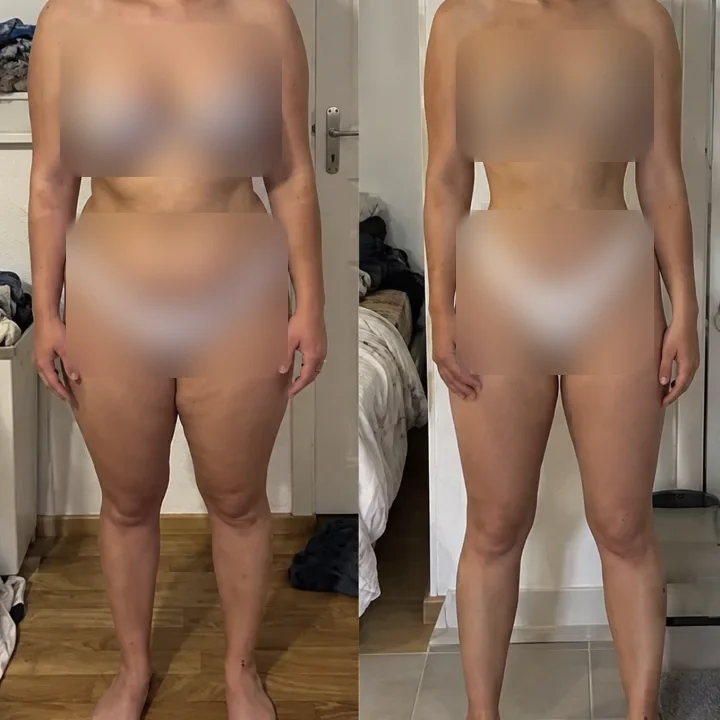
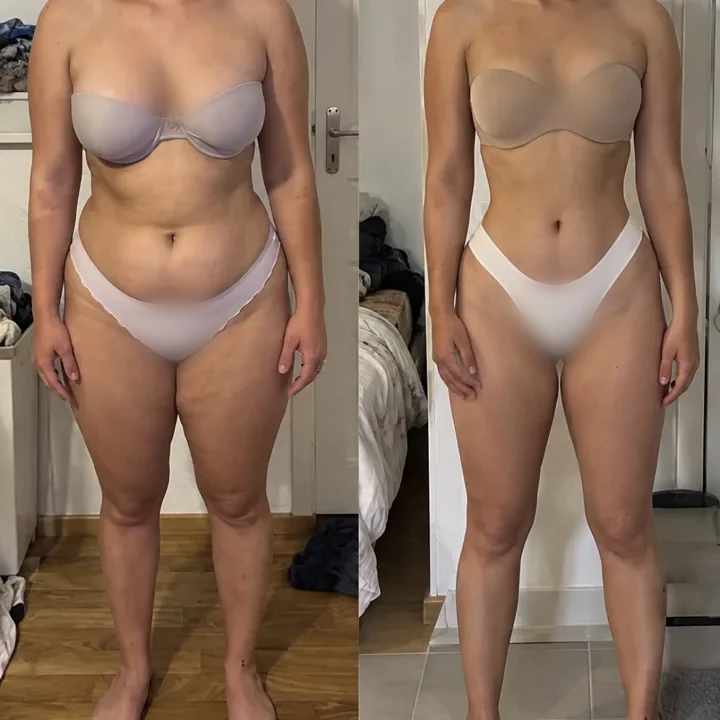
Crédibilité : Maria 8 mois partout, floutage intermédiaire, avis unique, wording hybride, sans chiffre
- Maria : −10 kg en 8 mois partout (index, transformations, offres, carrousels, Chilly-Mazarin, llms.txt)
- Photos Maria repartent des originaux : flou intermédiaire sur entrejambe et poitrine,
  résultats lisibles, mention « Photo publiée avec son accord » conservée (cache ?v=5)
- offres.html : avis « après ma grossesse » signé Alizée retiré (le bon prénom est Charlotte C.)
- offres.html : hybride Présence + formulé « ton rendez-vous mensuel avec moi » (plus de pluriels)
- transformations.html : « 90 % des femmes seules abandonnent » → « Seule, on lâche vite. Accompagnée, on avance. »

Claude-Session: https://claude.ai/code/session_0116pNBUciodfDtZ6XsWLEV5

diff --git a/offres.html b/offres.html
@@ -781,7 +781,7 @@ height="0" width="0" style="display:none;visibility:hidden"></iframe></noscript>
   </div>
   <div class="rf-tx-track">
     <a class="rf-tx-card" href="transformations.html#transfo-louise"><img src="images/avis/louise.webp" width="720" height="720" alt="Avant / après de Louise, coachée à domicile : −9 cm de tour de taille" fetchpriority="high" decoding="async"><span class="rf-tx-txt"><b>Louise</b> · −9 cm de tour de taille</span></a>
-    <a class="rf-tx-card" href="transformations.html#transfo-maria"><img src="images/avis/maria.webp?v=3" width="720" height="720" alt="Avant / après de Maria : −10 kg, coaching 100 % à distance" loading="lazy" decoding="async"><span class="rf-tx-txt"><b>Maria</b> · −10 kg, 100 % à distance</span></a>
+    <a class="rf-tx-card" href="transformations.html#transfo-maria"><img src="images/avis/maria.webp?v=5" width="720" height="720" alt="Avant / après de Maria : −10 kg, coaching 100 % à distance" loading="lazy" decoding="async"><span class="rf-tx-txt"><b>Maria</b> · −10 kg, 100 % à distance</span></a>
     <a class="rf-tx-card" href="transformations.html#transfo-lise"><img src="images/avis/lise.webp" width="720" height="720" alt="Avant / après de Lise : recomposition, ventre et taille affinés" loading="lazy" decoding="async"><span class="rf-tx-txt"><b>Lise</b> · recomposition, taille affinée</span></a>
   </div>
 </section>
@@ -827,7 +827,7 @@ height="0" width="0" style="display:none;visibility:hidden"></iframe></noscript>
       <p style="font-family:'Cormorant Garamond',serif;font-style:italic;font-size:clamp(1.1rem,2.6vw,1.3rem);color:var(--rf-ink2);margin:0 0 18px;">À la salle, tu paies un accès. Ici, tu paies un résultat. <a href="coach-sportif-ou-salle-de-sport.html" style="font:600 .8rem/1 'DM Sans',sans-serif;font-style:normal;color:var(--rf-terra);white-space:nowrap;">Le comparatif →</a></p>
       <span class="rf-eyebrow">Choisir mon accompagnement</span>
       <h2 class="rf-h2" style="margin-top:.3em;">Trois façons de <em>travailler avec moi</em></h2>
-      <p class="rf-lead">Chaque situation est différente. Celle que je recommande le plus&nbsp;: l'<strong>hybride</strong> — l'équilibre idéal entre séances en présentiel et autonomie guidée. Repère celle qui te ressemble, le détail des tarifs s'ouvre juste en dessous.</p>
+      <p class="rf-lead">Chaque situation est différente. Celle que je recommande le plus&nbsp;: l'<strong>hybride</strong> — l'équilibre idéal entre un rendez-vous mensuel en présentiel et une autonomie guidée. Repère celle qui te ressemble, le détail des tarifs s'ouvre juste en dessous.</p>
       <a href="espace-suivi.html" style="display:inline-block;margin-top:14px;background:#FFF9FA;border:1px solid #EDD0D8;border-radius:20px;padding:10px 20px;text-decoration:none;font-size:0.82rem;line-height:1.5;color:#A85570;font-weight:600;max-width:90%;">🔒 Quelle que soit ta formule, ton <strong style="color:#8E3D57;">espace de suivi privé</strong> est inclus →</a>
     </div>
 
@@ -854,11 +854,11 @@ height="0" width="0" style="display:none;visibility:hidden"></iframe></noscript>
         <div class="rf-fcard-for">« Je veux progresser toute la semaine, pas seulement le jour où on s'entraîne ensemble. »</div>
         <div class="rf-fcard-price">149€ <small>/ mois · l'hybride : 1 séance avec moi + programme &amp; suivi toute la semaine</small></div>
         <div style="font-size:.78rem;color:var(--rf-mute);line-height:1.5;margin:-6px 0 10px;">1 rendez-vous en présentiel par mois, un programme sur-mesure et un suivi au quotidien — <b style="color:var(--rf-ink);">tout compris</b>.</div>
-        <div class="rf-fcard-hero">Tes séances avec moi <b>+ un vrai programme sur-mesure</b> pour t'entraîner seule le reste de la semaine. Tu t'entraînes bien plus — sans jamais être livrée à toi-même.</div>
+        <div class="rf-fcard-hero">Ton rendez-vous mensuel avec moi <b>+ un vrai programme sur-mesure</b> pour t'entraîner seule le reste du mois. Tu t'entraînes bien plus — sans jamais être livrée à toi-même.</div>
         <ul>
-          <li><strong>Un vrai programme interactif entre nos séances</strong> — jusqu'à 5 entraînements guidés (vidéos + chrono), pas une simple liste d'exercices</li>
+          <li><strong>Un vrai programme interactif entre nos rendez-vous</strong> — jusqu'à 5 entraînements guidés (vidéos + chrono), pas une simple liste d'exercices</li>
           <li><strong>Mis à jour toutes les 4 semaines</strong> et pensé pour ta vraie vie — jamais un plan figé, il évolue avec toi</li>
-          <li>De <strong>vraies séances</strong> avec moi à domicile (Essonne)</li>
+          <li><strong>Ton rendez-vous mensuel avec moi</strong>, à domicile (Essonne)</li>
           <li>Je reste avec toi entre les rendez-vous : <strong>suivi WhatsApp + ajustements</strong></li>
           <li>Ton <strong>espace de suivi privé</strong> inclus (programme, bilans, mensurations)</li>
         </ul>
@@ -1400,7 +1400,7 @@ height="0" width="0" style="display:none;visibility:hidden"></iframe></noscript>
         <div class="rf-acc-inner">
           <!-- 1 · LE PRINCIPE, EN CLAIR -->
           <div class="rf-hyb-principle">
-            <p>🤝 <b>Avec moi, en présentiel&nbsp;:</b> on s'entraîne ensemble, je te corrige et j'ajuste ton programme au fil des séances.</p>
+            <p>🤝 <b>Avec moi, en présentiel&nbsp;:</b> on s'entraîne ensemble, je te corrige et j'ajuste ton programme à chaque rendez-vous mensuel.</p>
             <p>📱 <b>Entre nos rendez-vous&nbsp;:</b> tu continues seule avec un programme sur-mesure et interactif, guidé en vidéo, mis à jour toutes les 4 semaines.</p>
             <p>✨ <b>Résultat&nbsp;:</b> tu t'entraînes toute la semaine, pas seulement le jour du coaching — et tu n'es jamais livrée à toi-même.</p>
           </div>
@@ -1430,13 +1430,13 @@ height="0" width="0" style="display:none;visibility:hidden"></iframe></noscript>
           <!-- 2 · CE QUI EST INCLUS -->
           <div class="rf-hyb-h">Inclus dans ton coaching hybride</div>
           <ul class="rf-inc">
-            <li>De <b>vraies séances</b> avec moi à domicile dans l'Essonne (ou en salle ON AIR Fitness proche de mon secteur)</li>
+            <li><b>Ton rendez-vous mensuel avec moi</b>, à domicile dans l'Essonne (ou en salle ON AIR Fitness proche de mon secteur)</li>
             <li><b>Jusqu'à 5 entraînements à faire seule</b> entre nos rendez-vous — pour t'entraîner bien plus souvent</li>
             <li>Un <b>programme 100 % sur-mesure</b>, construit à partir de ce qu'on travaille ensemble et adapté à ton évolution</li>
             <li>Un <b>programme interactif et guidé</b> (vidéos intégrées, chrono)&nbsp;: tu sais exactement quoi faire</li>
             <li><b>Réactualisé toutes les 4 semaines</b>&nbsp;: ton programme évolue avec toi et ta vie, jamais un plan figé</li>
             <li>Ton <b>espace coaché personnel</b>&nbsp;: programme, bilans, mensurations, suivi de ton évolution</li>
-            <li><b>Suivi WhatsApp</b> entre les séances pour poser tes questions et ajuster si besoin</li>
+            <li><b>Suivi WhatsApp</b> entre nos rendez-vous pour poser tes questions et ajuster si besoin</li>
           </ul>
 
           <!-- 3 · PARCOURS + SÉLECTEUR DE DURÉE -->
@@ -1495,7 +1495,7 @@ height="0" width="0" style="display:none;visibility:hidden"></iframe></noscript>
             <p style="font-size:.76rem;color:var(--rf-mute);line-height:1.55;margin:6px 0 0;">Parcours 3 mois au tarif remisé · paiement SEPA sécurisé. <a href="cgv.html" style="color:var(--rf-terra);font-weight:600;">Voir les conditions (CGV) →</a></p>
           </div>
 
-          <p style="text-align:center;font-family:'Cormorant Garamond',Georgia,serif;font-style:italic;font-size:1.15rem;color:var(--rf-terra);line-height:1.45;margin:24px auto 20px;max-width:470px;">Plus de séances, plus de pratique, plus de progression — sans perdre l'accompagnement d'une coach.</p>
+          <p style="text-align:center;font-family:'Cormorant Garamond',Georgia,serif;font-style:italic;font-size:1.15rem;color:var(--rf-terra);line-height:1.45;margin:24px auto 20px;max-width:470px;">Plus d'entraînements, plus de pratique, plus de progression — sans perdre l'accompagnement d'une coach.</p>
 
           <a href="https://wa.me/33756834626?text=Bonjour%20Ornella%20!%20Je%20choisis%20le%20coaching%20hybride.%20On%20en%20parle%20%3F" target="_blank" class="rf-btn rf-btn-primary rf-btn-block rf-acc-cta">💬 Choisir cette formule (on en parle sur WhatsApp) →</a>
         </div>
@@ -1550,10 +1550,10 @@ height="0" width="0" style="display:none;visibility:hidden"></iframe></noscript>
             <div style="font-size:.8rem;color:var(--rf-terra);font-weight:600;margin-bottom:14px;">Ton programme personnalisé + je t'accompagne et je l'adapte dans le temps. Plus tu t'engages longtemps, plus le tarif est remisé.</div>
             <!-- PREUVE : Maria, 100 % distanciel + nutrition -->
             <a href="transformations.html#transfo-maria" style="display:flex;gap:14px;align-items:center;background:#fff;border:1px solid var(--rf-line);border-radius:14px;padding:10px;margin:0 0 16px;text-decoration:none;color:inherit;">
-              <img src="images/avis/maria.webp?v=3" alt="Avant / après de Maria, coachée à distance par Ornella" width="96" height="96" loading="lazy" style="width:96px;height:96px;border-radius:10px;object-fit:cover;flex-shrink:0;">
+              <img src="images/avis/maria.webp?v=5" alt="Avant / après de Maria, coachée à distance par Ornella" width="96" height="96" loading="lazy" style="width:96px;height:96px;border-radius:10px;object-fit:cover;flex-shrink:0;">
               <span style="display:flex;flex-direction:column;gap:3px;min-width:0;">
                 <span style="color:#E0A526;font-size:.78rem;letter-spacing:1px;">★★★★★</span>
-                <span style="font:700 .9rem/1.3 'DM Sans',sans-serif;color:var(--rf-ink);">Maria · −10 kg en 6 mois, 100 % à distance</span>
+                <span style="font:700 .9rem/1.3 'DM Sans',sans-serif;color:var(--rf-ink);">Maria · −10 kg en 8 mois, 100 % à distance</span>
                 <span style="font-size:.78rem;line-height:1.45;color:var(--rf-mute);">38 ans, 2 enfants. Programme sur-mesure + Boost Nutrition. <span style="color:var(--rf-terra);font-weight:600;">Voir sa transformation →</span></span>
               </span>
             </a>
@@ -1657,25 +1657,6 @@ height="0" width="0" style="display:none;visibility:hidden"></iframe></noscript>
       <div style="font-size:0.78rem;color:#7A6E6E;">25 avis vérifiés →</div>
     </div>
   </a>
-</div>
-
-<!-- TÉMOIGNAGE — remonté avant les détails d'offres -->
-<div style="background:white;padding:0 24px 32px;">
-  <div class="avis-card" style="max-width:520px;margin:0 auto;">
-    <div class="avis-header">
-      <div class="avis-avatar" style="background:linear-gradient(135deg,#9A8080,#C9957A);">A</div>
-      <div class="avis-meta">
-        <div class="avis-name">Alizée</div>
-        <div class="avis-date">Avis Google vérifié</div>
-      </div>
-      <a href="https://share.google/NcyAyWaS3WMZgQ4B6" target="_blank" aria-label="Voir les avis Google d'Ornella Fit Coaching">
-        <svg class="avis-google" viewBox="0 0 24 24" width="20" height="20"><path fill="#4285F4" d="M22.56 12.25c0-.78-.07-1.53-.2-2.25H12v4.26h5.92c-.26 1.37-1.04 2.53-2.21 3.31v2.77h3.57c2.08-1.92 3.28-4.74 3.28-8.09z"/><path fill="#34A853" d="M12 23c2.97 0 5.46-.98 7.28-2.66l-3.57-2.77c-.98.66-2.23 1.06-3.71 1.06-2.86 0-5.29-1.93-6.16-4.53H2.18v2.84C3.99 20.53 7.7 23 12 23z"/><path fill="#FBBC05" d="M5.84 14.09c-.22-.66-.35-1.36-.35-2.09s.13-1.43.35-2.09V7.07H2.18C1.43 8.55 1 10.22 1 12s.43 3.45 1.18 4.93l2.85-2.22.81-.62z"/><path fill="#EA4335" d="M12 5.38c1.62 0 3.06.56 4.21 1.64l3.15-3.15C17.45 2.09 14.97 1 12 1 7.7 1 3.99 3.47 2.18 7.07l3.66 2.84c.87-2.6 3.3-4.53 6.16-4.53z"/></svg>
-      </a>
-    </div>
-    <div class="avis-stars">★★★★★</div>
-    <p class="avis-text">J'ai commencé le coaching avec Ornella après ma grossesse, à un moment où je ne me reconnaissais plus vraiment physiquement. En quelques semaines, j'ai retrouvé du tonus, une meilleure posture et surtout confiance en moi. Elle ne promet pas de miracle, elle travaille intelligemment, et les résultats sont là. Je recommande à 100% ! 🙏</p>
-    <a href="https://share.google/NcyAyWaS3WMZgQ4B6" target="_blank" style="display:inline-block;margin-top:10px;font-size:0.78rem;font-weight:600;color:#4285F4;text-decoration:underline;text-underline-offset:2px;">Voir cet avis et les autres sur Google →</a>
-  </div>
 </div>
 
 <!-- 3 AVIS GOOGLE (suite Section 6) -->

diff --git a/transformations.html b/transformations.html
@@ -699,7 +699,7 @@ height="0" width="0" style="display:none;visibility:hidden"></iframe></noscript>
 <div class="transfo-ticker-wrap">
   <div class="transfo-ticker">
     <div class="transfo-ticker-track">
-      <a href="#transfo-maria"><img src="images/maria-face.webp?v=3" alt="Transformation Maria" width="1200" height="1200" loading="lazy"></a>
+      <a href="#transfo-maria"><img src="images/maria-face.webp?v=5" alt="Transformation Maria" width="1200" height="1200" loading="lazy"></a>
       <a href="#transfo-lise"><img src="images/lise-face.webp?v=2" alt="Transformation Lise" width="1191" height="1191" loading="lazy"></a>
       <a href="#transfo-lucie"><img src="images/avis/lucie.webp" alt="Transformation Lucie" width="720" height="720" loading="lazy"></a>
       <a href="#transfo-ornella"><img src="images/ornella-avant-apres-postpartum.jpg" alt="Transformation Ornella post-partum" width="2048" height="2048"></a>
@@ -711,7 +711,7 @@ height="0" width="0" style="display:none;visibility:hidden"></iframe></noscript>
       <a href="#transfo-anonyme"><img src="images/avant-apres-anonyme.jpg" alt="Transformation cliente" width="2048" height="2048" loading="lazy"></a>
       <a href="#transfo-anonyme"><img src="images/avant-apres-profil-anonyme.jpg" alt="Transformation cliente profil" width="2048" height="2048" loading="lazy"></a>
       <!-- doublon pour boucle infinie -->
-      <a href="#transfo-maria"><img src="images/maria-face.webp?v=3" alt="Transformation Maria" width="1200" height="1200" loading="lazy"></a>
+      <a href="#transfo-maria"><img src="images/maria-face.webp?v=5" alt="Transformation Maria" width="1200" height="1200" loading="lazy"></a>
       <a href="#transfo-lise"><img src="images/lise-face.webp?v=2" alt="Transformation Lise" width="1191" height="1191" loading="lazy"></a>
       <a href="#transfo-lucie"><img src="images/avis/lucie.webp" alt="Transformation Lucie" width="720" height="720" loading="lazy"></a>
       <a href="#transfo-ornella"><img src="images/ornella-avant-apres-postpartum.jpg" alt="Transformation Ornella post-partum" width="2048" height="2048" loading="lazy"></a>
@@ -840,12 +840,12 @@ height="0" width="0" style="display:none;visibility:hidden"></iframe></noscript>
       <div class="tc-card-featured" id="transfo-maria">
         <div class="tc-featured-photos">
           <div class="transfo-img-wrap">
-            <img src="images/maria-face.webp?v=3" alt="Transformation Maria vue de face — coaching 100 % à distance Ornella Fit" loading="lazy" width="1200" height="1200">
+            <img src="images/maria-face.webp?v=5" alt="Transformation Maria vue de face — coaching 100 % à distance Ornella Fit" loading="lazy" width="1200" height="1200">
             <div class="transfo-img-label">Vue de face</div>
             <div class="transfo-img-tag">AVANT → APRÈS</div>
           </div>
           <div class="transfo-img-wrap">
-            <img src="images/maria-dos.webp?v=2" alt="Transformation Maria vue de dos — coaching 100 % à distance Ornella Fit" loading="lazy" width="1080" height="1080">
+            <img src="images/maria-dos.webp?v=5" alt="Transformation Maria vue de dos — coaching 100 % à distance Ornella Fit" loading="lazy" width="1080" height="1080">
             <div class="transfo-img-label">Vue de dos</div>
             <div class="transfo-img-tag">AVANT → APRÈS</div>
           </div>
@@ -861,7 +861,7 @@ height="0" width="0" style="display:none;visibility:hidden"></iframe></noscript>
               <div class="tc-featured-stat-label">Poids perdu</div>
             </div>
             <div class="tc-featured-stat">
-              <div class="tc-featured-stat-num">6</div>
+              <div class="tc-featured-stat-num">8</div>
               <div class="tc-featured-stat-label">Mois de suivi</div>
             </div>
             <div class="tc-featured-stat">
@@ -869,7 +869,7 @@ height="0" width="0" style="display:none;visibility:hidden"></iframe></noscript>
               <div class="tc-featured-stat-label">À distance</div>
             </div>
           </div>
-          <p class="tc-featured-story">Deux enfants, peu de temps, et jamais une séance en face à face : tout s'est fait à distance. Un programme construit pour elle, l'alimentation ajustée chaque mois, un suivi WhatsApp et un bilan régulier. <strong>Résultat : −10 kg en 6 mois, un ventre affiné et des fessiers redessinés.</strong></p>
+          <p class="tc-featured-story">Deux enfants, peu de temps, et jamais une séance en face à face : tout s'est fait à distance. Un programme construit pour elle, l'alimentation ajustée chaque mois, un suivi WhatsApp et un bilan régulier. <strong>Résultat : −10 kg en 8 mois, un ventre affiné et des fessiers redessinés.</strong></p>
           <a href="https://wa.me/33756834626?text=Bonjour%20Ornella%20!%20J%27ai%20vu%20la%20transformation%20de%20Maria%20et%20j%27aimerais%20un%20coaching%20%C3%A0%20distance.%20Comment%20on%20commence%20%3F" class="btn-main" target="_blank" style="display:inline-flex;align-self:flex-start;">Je veux un suivi comme Maria →</a>
           <a href="offres.html#tarif-distanciel" class="tc-formule-link" style="display:inline-block;margin-top:10px;font-size:.88rem;font-weight:700;color:#C96358;text-decoration:underline;text-underline-offset:3px;">Découvrir le coaching à distance →</a>
         </div>
@@ -1192,7 +1192,7 @@ height="0" width="0" style="display:none;visibility:hidden"></iframe></noscript>
 
     <div class="avis-closing fade-in">
       <div class="avis-closing-text">
-        <p class="avis-closing-stat"><em>90%</em> des femmes seules abandonnent.</p>
+        <p class="avis-closing-stat">Seule, on lâche vite. <em>Accompagnée, on avance.</em></p>
         <p class="avis-closing-sub">Celles qui sont accompagnées avancent — semaine après semaine, résultat après résultat.</p>
       </div>
       <a href="https://wa.me/33756834626" class="avis-cta-btn" target="_blank">

diff --git a/index.html b/index.html
@@ -1232,7 +1232,7 @@ height="0" width="0" style="display:none;visibility:hidden"></iframe></noscript>
           Réserver mon bilan gratuit →
         </a>
         <p class="hero-proof-line" style="margin-top:12px;font-size:0.92rem;color:var(--dark);font-weight:600;">
-          <span style="color:#C9A96E;">★ 5,0</span> · 25 avis Google · <span style="color:var(--accent);">Maria −10 kg en 6 mois</span>
+          <span style="color:#C9A96E;">★ 5,0</span> · 25 avis Google · <span style="color:var(--accent);">Maria −10 kg en 8 mois</span>
         </p>
         <p style="margin-top:8px;font-size:0.9rem;color:var(--text-mid);">
           ou <a href="quiz.html" style="color:var(--accent);text-decoration:underline;text-underline-offset:3px;">🎯 trouve ta formule en 2 min</a>
@@ -1421,7 +1421,7 @@ height="0" width="0" style="display:none;visibility:hidden"></iframe></noscript>
     <div class="chiffres-secondary">
       <div class="chiffres-stat">
         <div class="chiffres-stat-num">−10 kg</div>
-        <div class="chiffres-stat-label">Maria · 6 mois à distance</div>
+        <div class="chiffres-stat-label">Maria · 8 mois à distance</div>
       </div>
       <div class="chiffres-stat">
         <div class="chiffres-stat-num">−9 cm</div>
@@ -1648,7 +1648,7 @@ height="0" width="0" style="display:none;visibility:hidden"></iframe></noscript>
     <!-- TICKER PHOTOS TRANSFORMATIONS (boucle infinie : le 2e jeu est cloné en JS, cf. idxTickerLoop) -->
     <div class="idx-ticker-wrap">
       <div class="idx-ticker-track" id="idx-ticker-track">
-        <a href="transformations.html#transfo-maria"><img src="images/maria-face.webp?v=3" alt="Transformation Maria" width="1200" height="1200" loading="lazy"></a>
+        <a href="transformations.html#transfo-maria"><img src="images/maria-face.webp?v=5" alt="Transformation Maria" width="1200" height="1200" loading="lazy"></a>
         <a href="transformations.html#transfo-louise"><img src="images/louise-face.webp?v=2" alt="Transformation Louise" width="4319" height="4319" loading="lazy"></a>
         <a href="transformations.html#transfo-louise"><img src="images/louise-dos-avant-apres.webp?v=2" alt="Transformation Louise dos" width="4319" height="4319" loading="lazy"></a>
         <a href="transformations.html#transfo-emeline"><img src="images/transformation-emeline.webp" alt="Transformation Emeline" width="1080" height="1350" loading="lazy"></a>
@@ -1673,8 +1673,8 @@ height="0" width="0" style="display:none;visibility:hidden"></iframe></noscript>
       <!-- MARIA — 100 % à distance -->
       <div class="transfo-card transfo-card-featured transfo-card-emeline">
         <div class="transfo-card-img transfo-card-img-duo">
-          <img src="images/maria-face.webp?v=3" alt="Transformation Maria face — coaching 100 % à distance Ornella Fit" loading="lazy" width="1200" height="1200">
-          <img src="images/maria-dos.webp?v=2" alt="Transformation Maria dos — coaching 100 % à distance Ornella Fit" loading="lazy" width="1080" height="1080">
+          <img src="images/maria-face.webp?v=5" alt="Transformation Maria face — coaching 100 % à distance Ornella Fit" loading="lazy" width="1200" height="1200">
+          <img src="images/maria-dos.webp?v=5" alt="Transformation Maria dos — coaching 100 % à distance Ornella Fit" loading="lazy" width="1080" height="1080">
           <div class="transfo-card-tag">AVANT → APRÈS</div>
         </div>
         <div class="transfo-card-body">
@@ -1682,10 +1682,10 @@ height="0" width="0" style="display:none;visibility:hidden"></iframe></noscript>
           <div class="transfo-card-name">Maria · Maman 2 enfants · Coaching 100 % à distance</div>
           <div class="transfo-card-stats">
             <span class="transfo-card-stat">−10 kg</span>
-            <span class="transfo-card-stat">6 mois</span>
+            <span class="transfo-card-stat">8 mois</span>
             <span class="transfo-card-stat">100 % à distance</span>
           </div>
-          <p class="transfo-card-text">Deux enfants, peu de temps, jamais une séance en face à face : tout s'est fait à distance. Programme sur-mesure, alimentation ajustée chaque mois, suivi WhatsApp. <strong>Résultat : −10 kg en 6 mois, ventre affiné et fessiers redessinés.</strong></p>
+          <p class="transfo-card-text">Deux enfants, peu de temps, jamais une séance en face à face : tout s'est fait à distance. Programme sur-mesure, alimentation ajustée chaque mois, suivi WhatsApp. <strong>Résultat : −10 kg en 8 mois, ventre affiné et fessiers redessinés.</strong></p>
         </div>
       </div>
 

diff --git a/coach-sportif-domicile-chilly-mazarin.html b/coach-sportif-domicile-chilly-mazarin.html
@@ -140,7 +140,7 @@ j=d.createElement(s),dl=l!='dataLayer'?'&l='+l:'';j.async=true;j.src=
     <img src="images/louise-face.webp?v=2" alt="Transformation Louise — coaching sportif à domicile Essonne" loading="lazy" width="1080" height="1080">
     <div class="ct-txt">
       <span class="section-label" style="color:#C96358;">Résultat réel</span>
-      <p class="section-subtitle" style="text-align:left;margin-top:8px;">À distance comme en présentiel, les résultats suivent : Maria a perdu <strong>10 kg en 6 mois</strong> en 100 % à distance, et Louise <strong>9 cm de taille</strong> en coaching à domicile. Même méthode, deux formats.</p>
+      <p class="section-subtitle" style="text-align:left;margin-top:8px;">À distance comme en présentiel, les résultats suivent : Maria a perdu <strong>10 kg en 8 mois</strong> en 100 % à distance, et Louise <strong>9 cm de taille</strong> en coaching à domicile. Même méthode, deux formats.</p>
       <a href="transformations.html" style="color:#C96358;font-weight:700;">Voir toutes les transformations →</a>
     </div>
   </div>

diff --git a/data/temoignages.js b/data/temoignages.js
@@ -13,10 +13,10 @@ window.OFC_TEMOIGNAGES = [
     id: 'maria',
     prenom: 'Maria',
     infos: '38 ans · maman de 2 enfants',
-    formule: '100 % à distance + nutrition · 6 mois',
-    resultat: '−10 kg en 6 mois',
+    formule: '100 % à distance + nutrition · 8 mois',
+    resultat: '−10 kg en 8 mois',
     texte: 'Coachée entièrement à distance, avec le Boost Nutrition. Un programme fait pour elle, ajusté à chaque bilan : −10 kg et une silhouette complètement redessinée.',
-    photo: 'images/avis/maria.webp?v=3',
+    photo: 'images/avis/maria.webp?v=5',
     alt: 'Avant / après de Maria, coachée à distance par Ornella',
     lien: 'offres.html#tarif-distanciel',
     lienTexte: 'Découvrir le coaching à distance'
